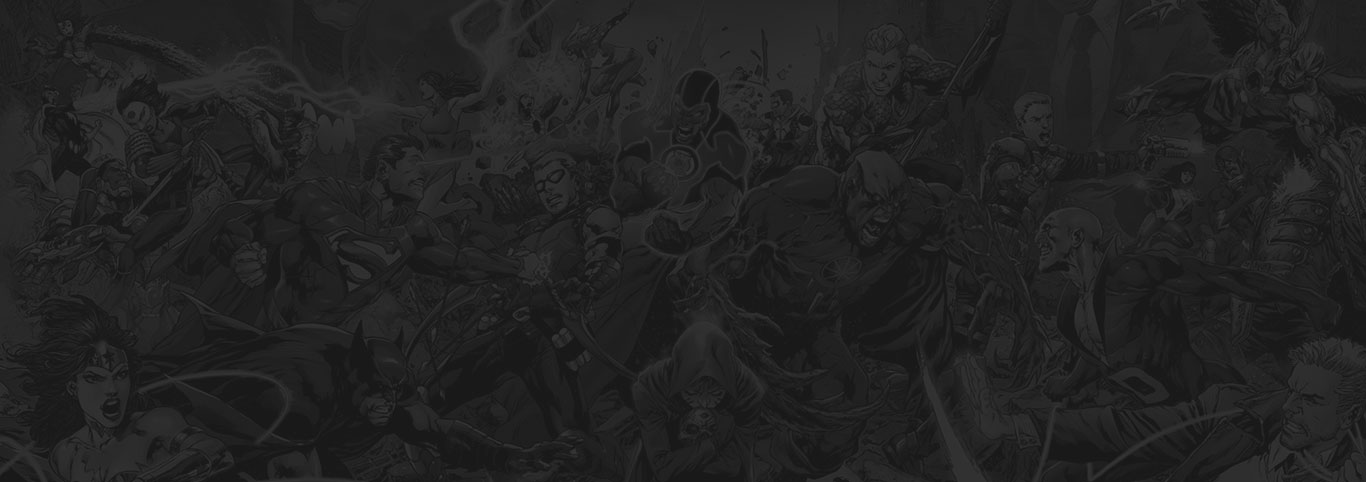
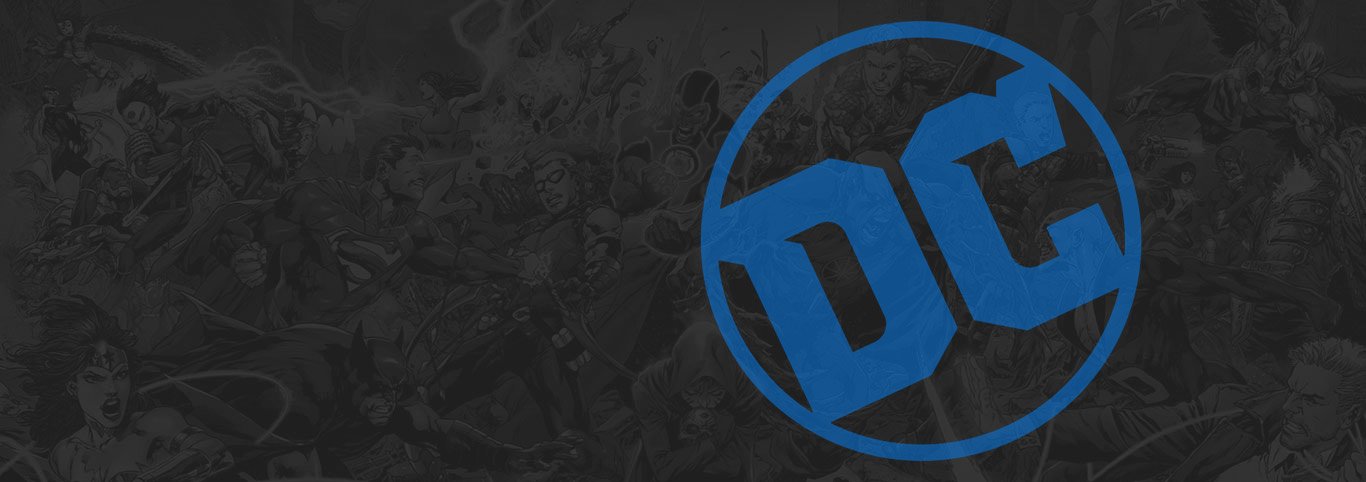
definita struttura dell'header e parte del main

Changed region(s): [[0.4919, 0.0311, 0.8609, 0.9647]]

diff --git a/src/components/AppHeader.vue b/src/components/AppHeader.vue
@@ -1,9 +1,104 @@
 <script>
 export default {
-
+  name: "AppHeader",
+  data() {
+    return {
+      logo: "src/assets/img/dc-logo.png",
+      links: [
+        {
+          text: "CHARACTERS",
+          url: "#",
+          current: false
+        },
+        {
+          text: "COMICS",
+          url: "#",
+          current: true
+        },
+        {
+          text: "MOVIES",
+          url: "#",
+          current: false
+        },
+        {
+          text: "TV",
+          url: "#",
+          current: false
+        },
+        {
+          text: "GAMES",
+          url: "#",
+          current: false
+        },
+        {
+          text: "COLLECTIBLES",
+          url: "#",
+          current: false
+        },
+        {
+          text: "VIDEOS",
+          url: "#",
+          current: false
+        },
+        {
+          text: "FANS",
+          url: "#",
+          current: false
+        },
+        {
+          text: "NEWS",
+          url: "#",
+          current: false
+        },
+        {
+          text: "SHOP",
+          url: "#",
+          current: false
+        },
+      ]
+    }
+  }
 }
+
 </script>
 <template>
-  <h1>HEADER</h1>
+  <header>
+    <div class="container">
+
+      <!-- logo -->
+      <a href="#" class="logo">
+        <img :src="logo" alt="logo">
+      </a>
+
+      <!-- nav bar -->
+      <nav>
+        <ul>
+          <li v-for="(link, index) in links" :key="index">
+            <a :href="link.url" :class="{ active: link.current }">
+              {{ link.text }}
+            </a>
+          </li>
+        </ul>
+      </nav>
+    </div>
+  </header>
 </template>
-<style></style>
+<style lang="scss" scoped>
+.container {
+  width: 1200px;
+  height: 150px;
+  display: flex;
+  justify-content: space-between;
+  align-items: center;
+}
+
+ul {
+  display: flex;
+  flex-direction: row;
+}
+
+li {
+  margin-left: 20pt;
+  list-style-type: none;
+}
+</style>

diff --git a/src/components/AppBlueLine.vue b/src/components/AppBlueLine.vue
@@ -1,0 +1,53 @@
+<script>
+export default {
+    name: "AppBlueLine",
+    data() {
+        return {
+            links: [
+                {
+                    Img: "src/assets/img/buy-comics-digital-comics.png",
+                    text: "DIGITAL COMICS",
+                    url: "#",
+                    current: false
+                },
+                {
+                    Img: "src/assets/img/buy-comics-merchandise.png",
+                    text: "DC MERCHANDISE",
+                    url: "#",
+                    current: true
+                },
+                {
+                    Img: "src/assets/img/buy-comics-subscriptions.png",
+                    text: "SUBSCRIPTION",
+                    url: "#",
+                    current: false
+                },
+                {
+                    Img: "src/assets/img/buy-comics-shop-locator.png",
+                    text: "COMIC SHOP LOCATOR",
+                    url: "#",
+                    current: false
+                },
+                {
+                    Img: "src/assets/img/buy-dc-power-visa.svg",
+                    text: "DC POWER VISA",
+                    url: "#",
+                    current: false
+                }
+            ]
+        }
+    }
+
+}
+</script>
+<template>
+    <div class="background-blue">
+
+    </div>
+</template>
+<style lang="scss" scoped>
+.background-blue {
+    background-color: blue;
+    height: 200px;
+}
+</style>

diff --git a/src/App.vue b/src/App.vue
@@ -2,10 +2,12 @@
 import AppHeader from './components/AppHeader.vue'
 import AppMain from './components/AppMain.vue'
 import AppFooter from './components/AppFooter.vue'
+import AppBlueLine from './components/AppBlueLine.vue'
 export default {
   components: {
     AppHeader,
     AppMain,
+    AppBlueLine,
     AppFooter
   }
 }
@@ -13,5 +15,14 @@ export default {
 <template>
   <AppHeader />
   <AppMain />
+  <AppBlueLine />
   <AppFooter />
 </template>
+
+<style>
+* {
+  padding: 0;
+  margin: 0;
+  box-sizing: border-box;
+}
+</style>

diff --git a/src/components/AppMain.vue b/src/components/AppMain.vue
@@ -4,6 +4,17 @@ export default {
 }
 </script>
 <template>
-    <h1>MAIN</h1>
+    <main>
+        <h1>Content here>></h1>
+    </main>
 </template>
-<style></style>
+<style lang="scss" scoped>
+main {
+    height: 100px;
+    background-color: black;
+}
+
+h1 {
+    color: white;
+}
+</style>
